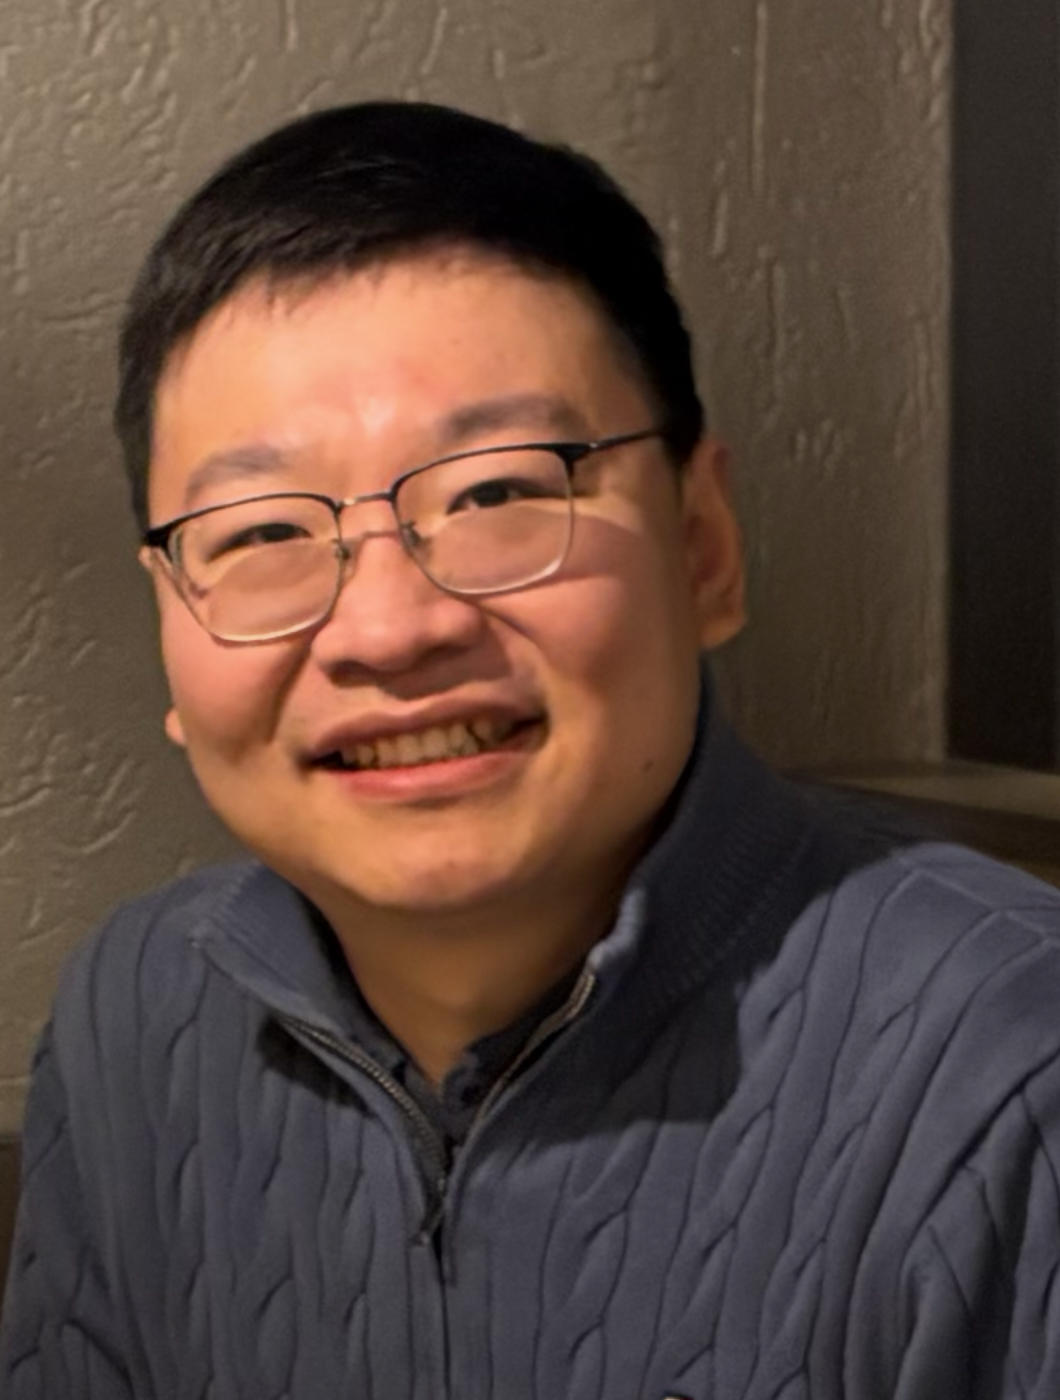
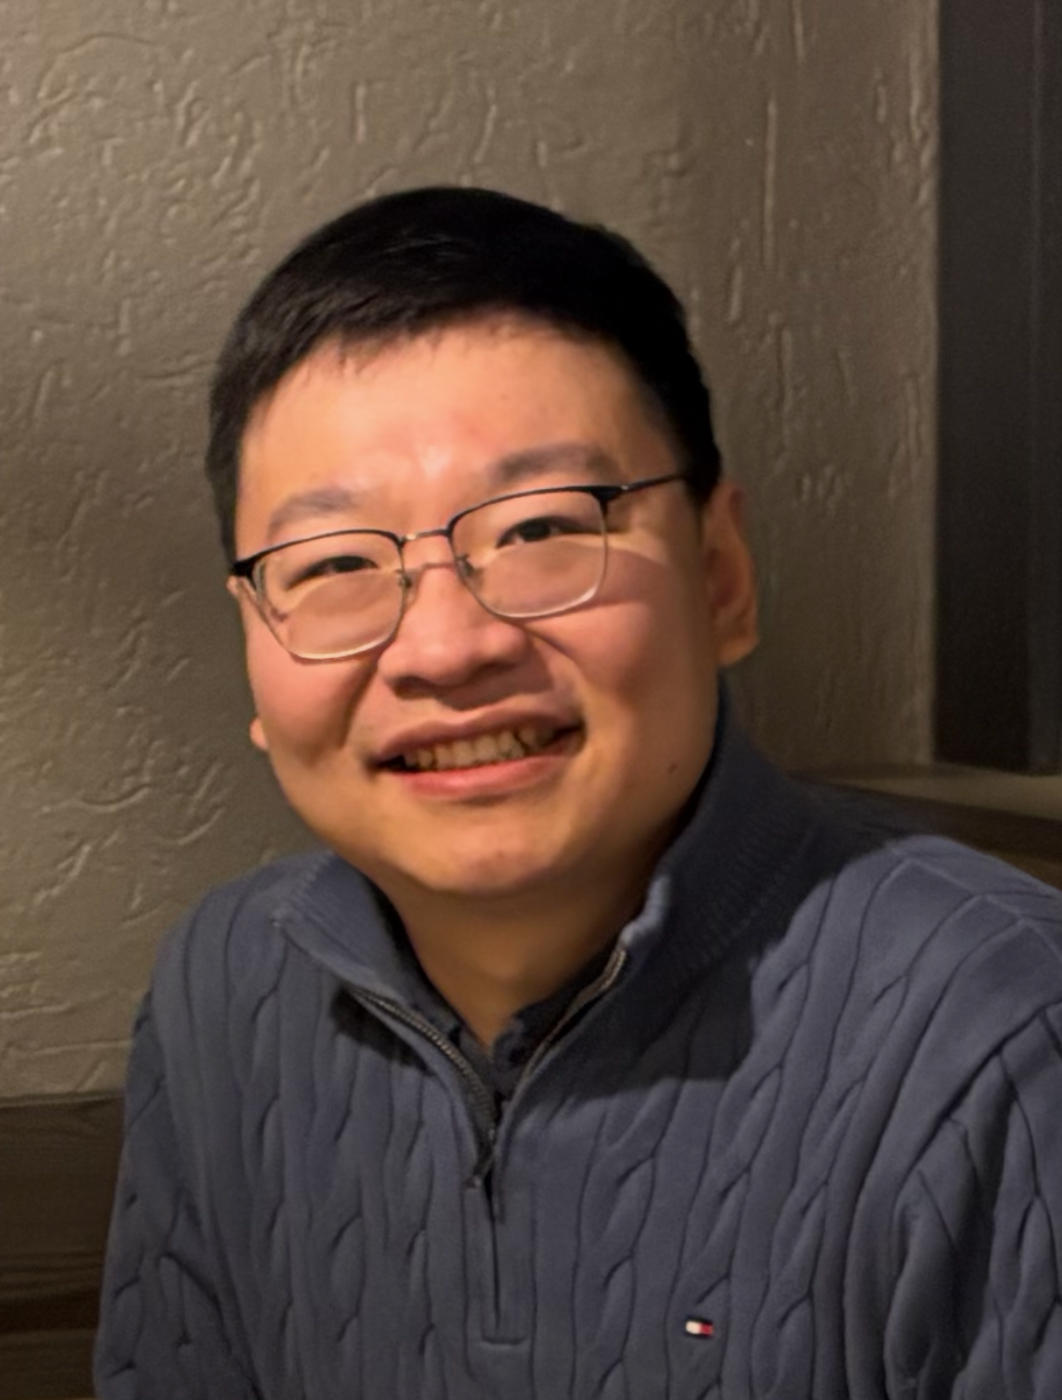
Apr. 8, 2026

diff --git a/_sass/layout/_sidebar.scss b/_sass/layout/_sidebar.scss
@@ -95,7 +95,7 @@
 
   img {
     max-width: 210px; // 175
-    border-radius: 50%; // 50%
+    border-radius: 10%; // 50%
 
     @include breakpoint($large) {
       padding: 5; // 5
